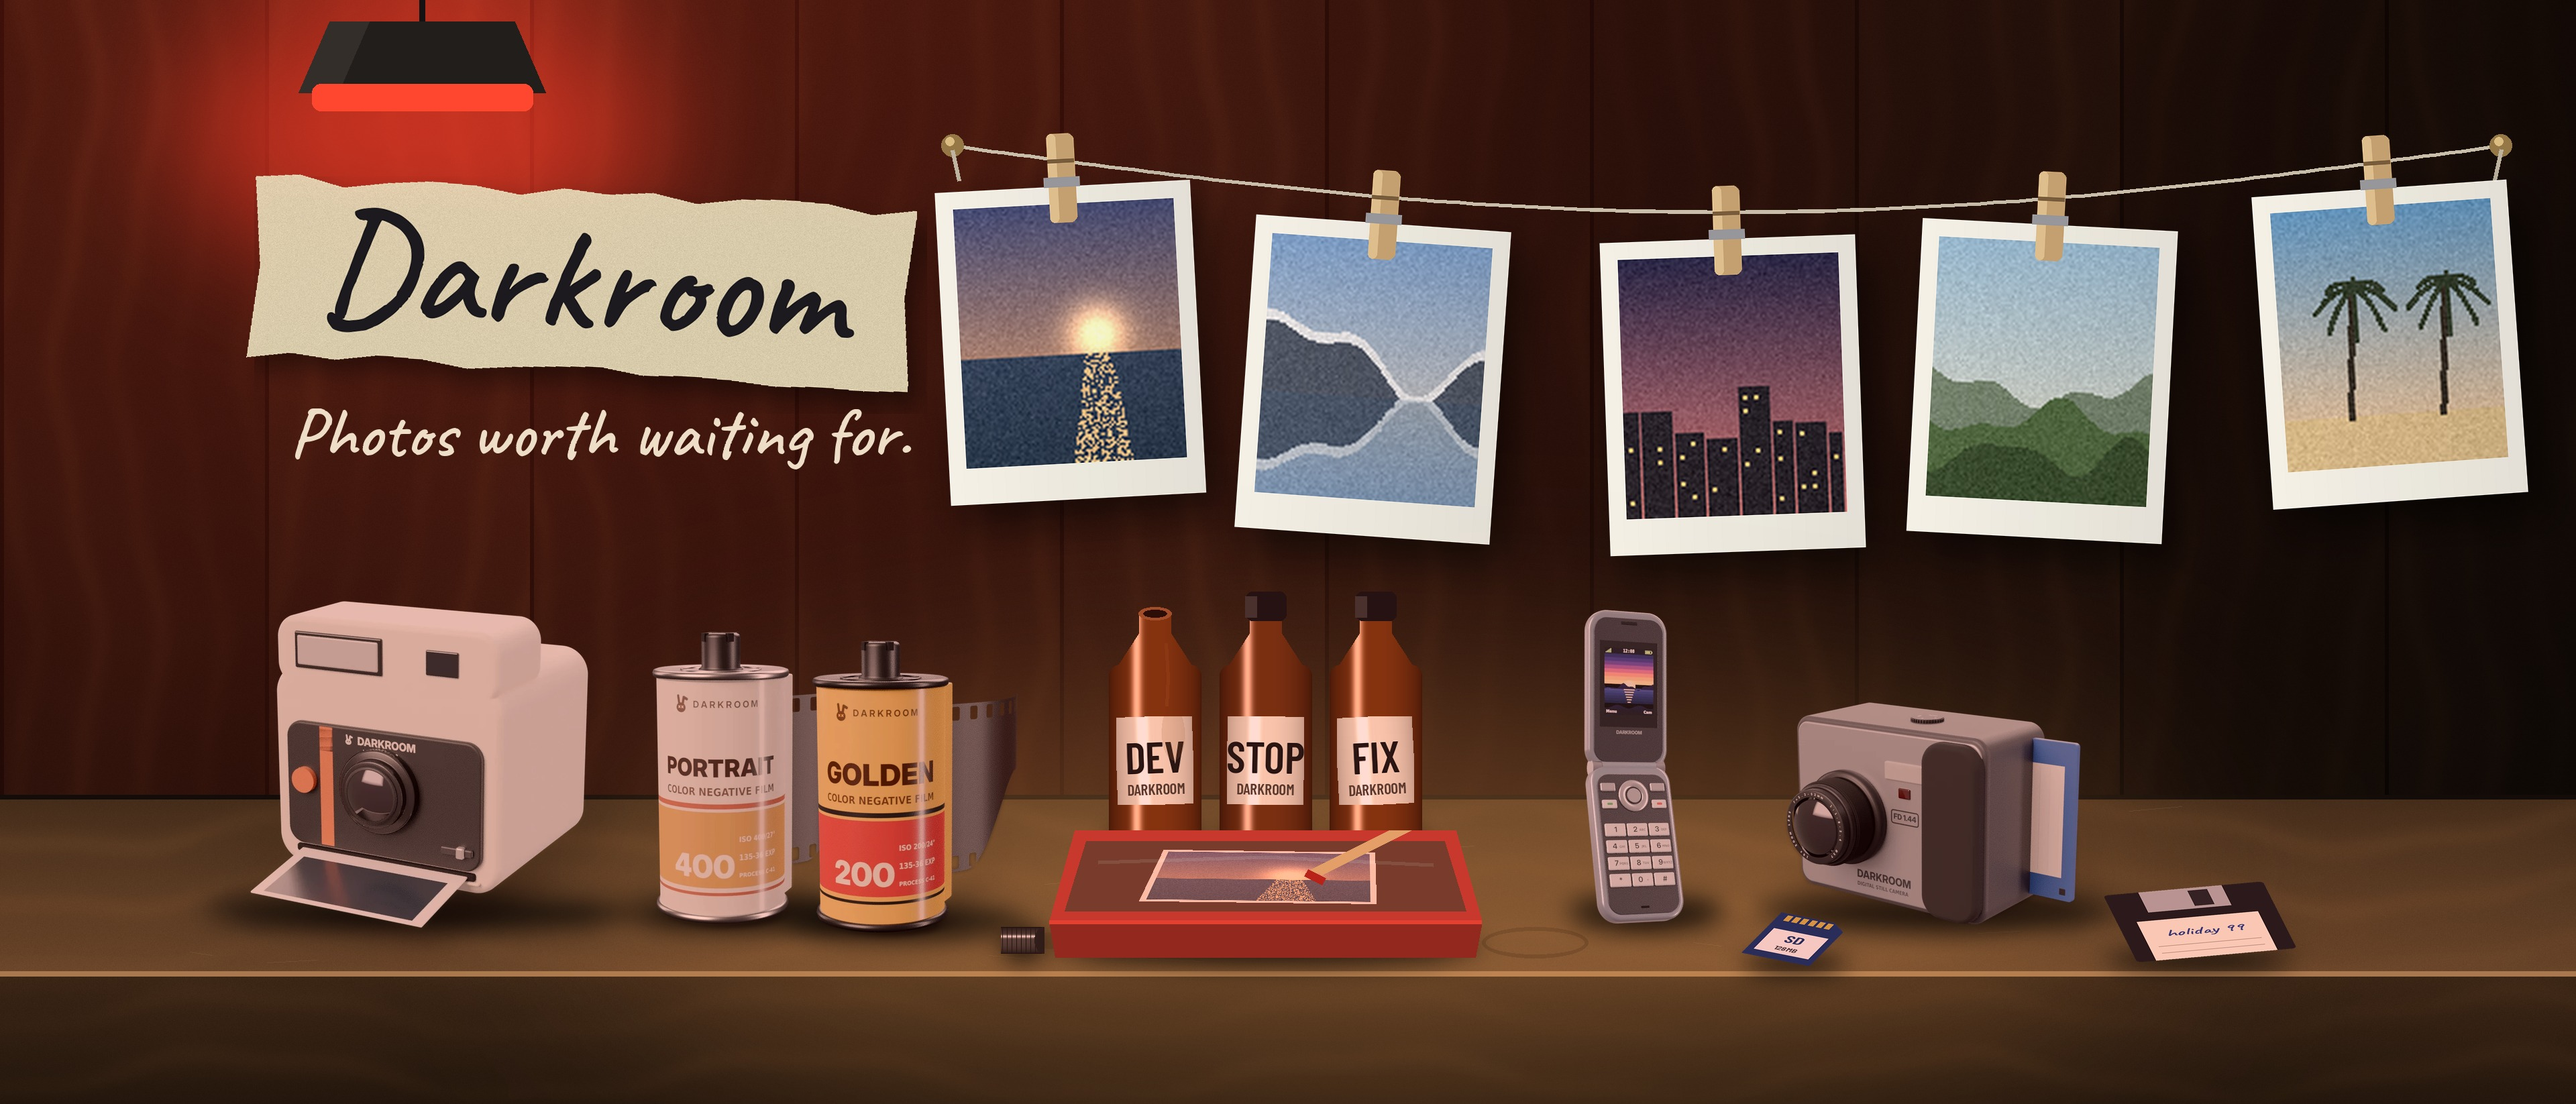
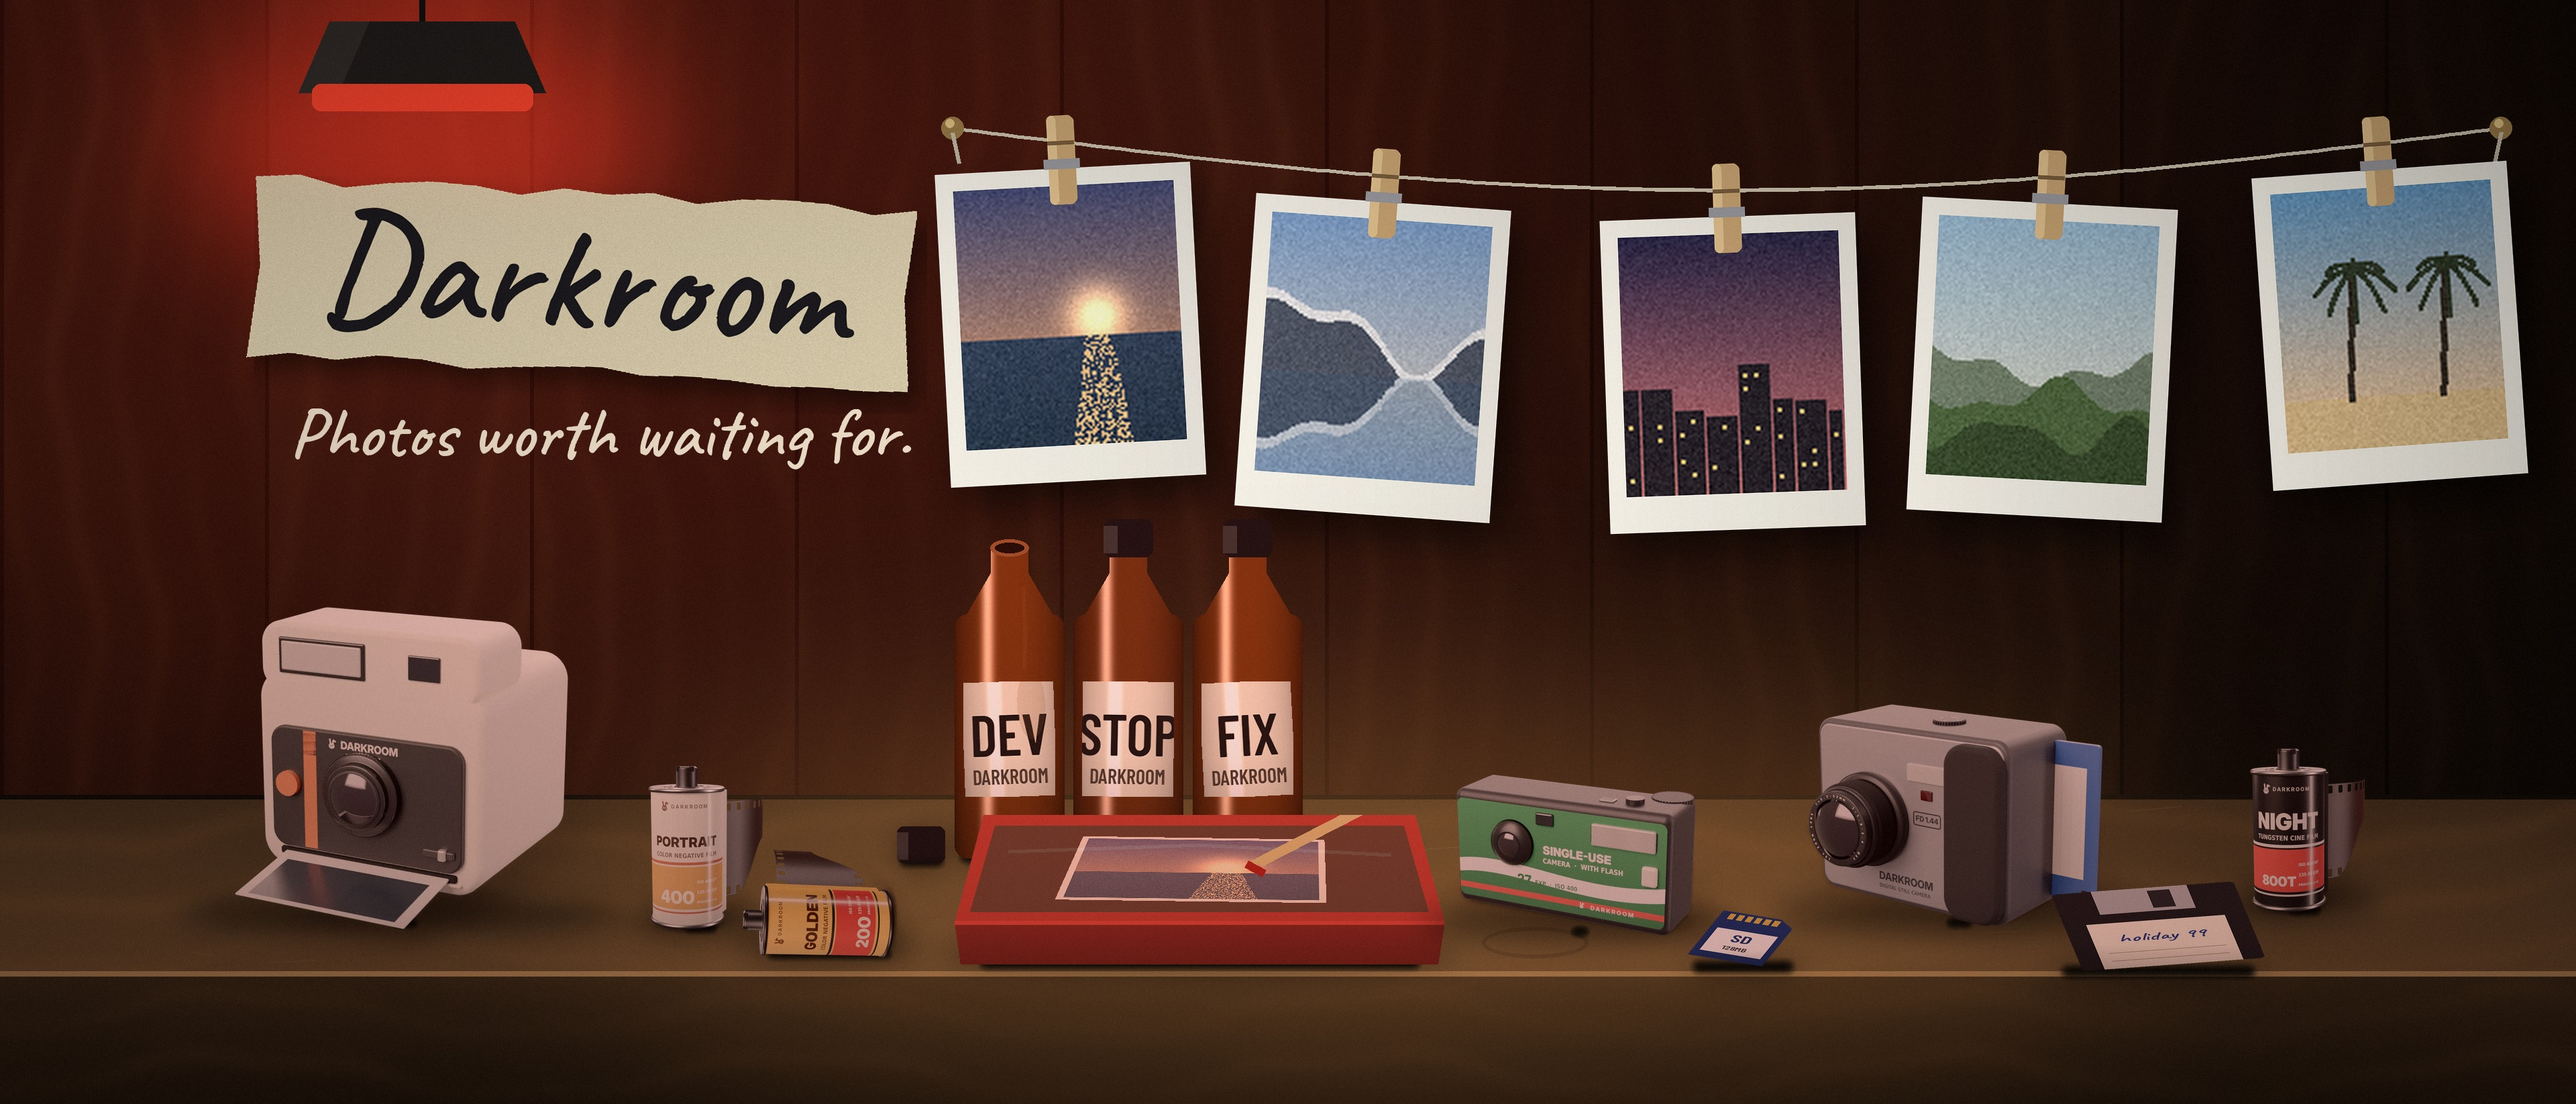
Store header: true scale, three rolls, single-use camera, lid by its bottle, contact shadows, final grade

Changed region(s): [[0.0, 0.2479, 1.0, 0.8985], [0.3438, 0.093, 1.0, 0.5267], [0.0, 0.0, 0.2812, 0.3408]]

diff --git a/tool/store/make_header.py b/tool/store/make_header.py
@@ -361,7 +361,7 @@ def stage(OW, OH):
 
     # the drying line: tied to a nail at each end, sagging between them
     x0, x1 = 360.0, Lw - ox - 34
-    line_y = lambda x: 66 + 30 * math.sin(math.pi * (x - x0) / (x1 - x0))  # noqa: E731
+    line_y = lambda x: 58 + 28 * math.sin(math.pi * (x - x0) / (x1 - x0))  # noqa: E731
     d2 = ImageDraw.Draw(img)
     d2.line([(X(x), Y(line_y(x))) for x in np.linspace(x0, x1, 120)], fill=(200, 190, 170, 255), width=max(1, int(K(2))))
     for nx in (x0, x1):
@@ -405,48 +405,75 @@ def stage(OW, OH):
 
     base = 418.0
 
-    def shadow(x, w, y, depth=14):
-        # a soft shadow tucked under the thing, darkest right at its foot
+    def shadow(x, w, y, depth=12, foot=None):
+        # a soft shadow tucked under the thing, and a tight dark line where
+        # it actually touches the desk (the part that sells "resting on it")
         m = Image.new('L', (W, H), 0)
         md = ImageDraw.Draw(m)
-        md.ellipse([X(x) - w * 0.5, Y(y - depth), X(x) + w * 0.5, Y(y + 3)], fill=150)
-        md.ellipse([X(x) - w * 0.42, Y(y - 3), X(x) + w * 0.42, Y(y + 2)], fill=235)
-        m = m.filter(ImageFilter.GaussianBlur(K(5)))
+        md.ellipse([X(x) - w * 0.52, Y(y - depth), X(x) + w * 0.52, Y(y + 4)], fill=120)
+        m = m.filter(ImageFilter.GaussianBlur(K(6)))
+        c = Image.new('L', (W, H), 0)
+        fw = (foot or w * 0.9) / 2
+        ImageDraw.Draw(c).rounded_rectangle([X(x) - fw, Y(y) - K(3), X(x) + fw, Y(y) + K(2.5)], radius=K(2), fill=235)
+        c = c.filter(ImageFilter.GaussianBlur(K(1.6)))
+        m = Image.fromarray(np.maximum(np.array(m), np.array(c)))
         sh = Image.new('RGBA', (W, H), (0, 0, 0, 0))
         sh.putalpha(m)
         img.alpha_composite(sh)
 
     def lit(a):
+        # the room's light: a touch of the safelight's red, and the lower
+        # part of everything a little darker (the desk shades it)
         px = np.array(a, float)
         px[..., :3] = px[..., :3] * np.array([1.0, 0.86, 0.82]) + np.array([14, 0, 0])
+        ramp = np.clip((np.arange(a.height) / max(1, a.height) - 0.7) / 0.3, 0, 1) * 0.18
+        px[..., :3] *= (1 - ramp)[:, None, None]
         return Image.fromarray(px.clip(0, 255).astype(np.uint8))
+
+    def foot_width(a, foot):
+        al = np.array(a.split()[-1])
+        cols = np.where(al[max(0, foot - 2)] > 200)[0]
+        return (cols[-1] - cols[0]) if len(cols) else a.width * 0.9
 
     def stand(a, x, y=base, foot=None):
         foot = a.height if foot is None else foot
-        shadow(x, a.width, y)
-        img.alpha_composite(lit(a), (int(X(x) - a.width / 2), int(Y(y) - foot)))
+        shadow(x, a.width, y, foot=foot_width(a, foot) if foot < a.height else None)
+        img.alpha_composite(lit(a), (int(X(x) - a.width / 2), int(Y(y) - foot + K(1))))
 
-    def render(name, h, x, y=base):
+    def render(name, h, x, y=base, turn=0):
+        """A rendered thing, [h] tall from its foot to its top (true scale:
+        the instant camera ~10 cm = 120, a film canister ~5 cm = 62)."""
         a = art(name)
+        if turn:
+            a = a.rotate(turn, resample=Image.BICUBIC, expand=True)
+            a = a.crop(a.getbbox())
         f = foot_of(a)
-        s = K(h) / f  # h = the object's own height, foot to top
+        s = K(h) / f
         a = a.resize((max(1, int(a.width * s)), max(1, int(a.height * s))), Image.LANCZOS)
         stand(a, x, y, int(f * s))
 
-    render('polaroid600', 146, 120)
-    render('portra400', 132, 266)
-    render('gold200', 132, 338, base + 4)
-    # the chemistry: three bottles at the back, DEV opened, its cap beside it
-    for x, glass, text, capped, tilt in [(452, (120, 60, 20), 'DEV', False, 2), (502, (110, 56, 22), 'STOP', True, -1),
-                                         (552, (120, 60, 20), 'FIX', True, 3)]:
-        stand(bottle(int(K(42)), int(K(118)), glass, (236, 228, 210), text, capped, tilt), x, base - 32)
-    c = cap(int(K(20)))
-    stand(c, 392, base + 14)
-    stand(tray(int(K(196)), int(K(58)), (186, 66, 54), 'sea', k), 502, base + 16)
-    render('flipphone', 142, 674)
-    render('floppy99', 100, 806)
-    for im, x, y in [(flat(floppy(int(K(74))), 0.42, 12), 925, base + 18), (flat(sd_card(int(K(34))), 0.45, -24), 742, base + 20)]:
-        shadow(x, im.width, y, 6)
+    # left: the instant camera, a roll standing and one lying beside it
+    render('polaroid600', 144, 112)
+    render('portra400', 74, 246, base + 2)
+    render('gold200', 48, 304, base + 14, turn=88)
+    # the chemistry: three bottles at the back, DEV opened, its cap set
+    # down right beside it
+    bh, bw = 154, 50
+    for x, glass, text, capped, tilt in [(386, (120, 60, 20), 'DEV', False, 2), (440, (110, 56, 22), 'STOP', True, -1),
+                                         (494, (120, 60, 20), 'FIX', True, 3)]:
+        stand(bottle(int(K(bw)), int(K(bh)), glass, (236, 228, 210), text, capped, tilt), x, base - 30)
+    lid = Image.new('RGBA', (int(K(bw * 0.44)), int(K(bh * 0.11))), (0, 0, 0, 0))
+    ldr = ImageDraw.Draw(lid)
+    ldr.rounded_rectangle([0, 0, lid.width - 1, lid.height - 1], radius=K(3), fill=(24, 22, 22, 255))
+    ldr.rectangle([0, lid.height * 0.18, K(5), lid.height * 0.9], fill=(60, 58, 56, 255))
+    stand(lid, 346, base - 28)
+    stand(tray(int(K(222)), int(K(68)), (186, 66, 54), 'sea', k), 472, base + 18)
+    # right: the single-use camera, the digital camera and its media, a roll
+    render('superia400', 72, 644, base + 4)
+    render('floppy99', 100, 816)
+    render('cinestill800t', 74, 972, base - 6)
+    for im, x, y in [(flat(sd_card(int(K(36))), 0.45, -20), 718, base + 20), (flat(floppy(int(K(84))), 0.42, 10), 906, base + 22)]:
+        shadow(x, im.width, y, 4)
         img.alpha_composite(lit(im), (int(X(x) - im.width / 2), int(Y(y) - im.height)))
 
     # the name on masking tape, stuck to the wall
@@ -468,7 +495,13 @@ def stage(OW, OH):
     img.alpha_composite(tsh, (int(X(44)), int(Y(80))))
     img.alpha_composite(tape, (int(X(40)), int(Y(74))))
     ImageDraw.Draw(img).text((X(60), Y(176)), TAGLINE, font=ImageFont.truetype(FONT, int(K(32))), fill=(238, 222, 200, 230))
-    return img.convert('RGB')
+    # the finish: a soft vignette and a whisper of grain over everything
+    out = np.array(img.convert('RGB'), float)
+    yy, xx = np.mgrid[0:H, 0:W]
+    v = ((xx / W - 0.5) ** 2 * 1.2 + (yy / H - 0.45) ** 2 * 1.6)
+    out *= (1 - np.clip(v * 0.55, 0, 0.35))[..., None]
+    out += np.random.default_rng(3).normal(0, 2.2, (H, W, 1))
+    return Image.fromarray(out.clip(0, 255).astype(np.uint8))
 
 
 TAGLINE = 'Photos worth waiting for.'

diff --git a/docs/CHANGELOG.md b/docs/CHANGELOG.md
@@ -1391,8 +1391,9 @@ for from 2026-10-28 (reminder set for 2026-10-29).
 - [~] **57.66** Store art: `tool/store/make_header.py` draws a darkroom
   wall under the safelight, prints drying on a line between two nails, the
   films, an open DEV bottle (cap beside it), STOP/FIX, a tray with a print
-  coming up and tongs, the flip phone, the floppy camera, an SD card and a
-  floppy on the desk; tagline "Photos worth waiting for." Sizes: Play
+  coming up and tongs, the single-use and floppy cameras, an SD card and a
+  floppy on the desk, everything at true scale (rolls half the instant
+  camera's height), a contact shadow at every foot; tagline "Photos worth waiting for." Sizes: Play
   1024x500, Apple 3840x1646 and 5244x2950 (`docs/store/`).
 - [~] **57.67** Flip phone artwork re-rendered (`tool/render/items/flip.js`):
   the screen half upright, the keypad half angled toward you (was the
